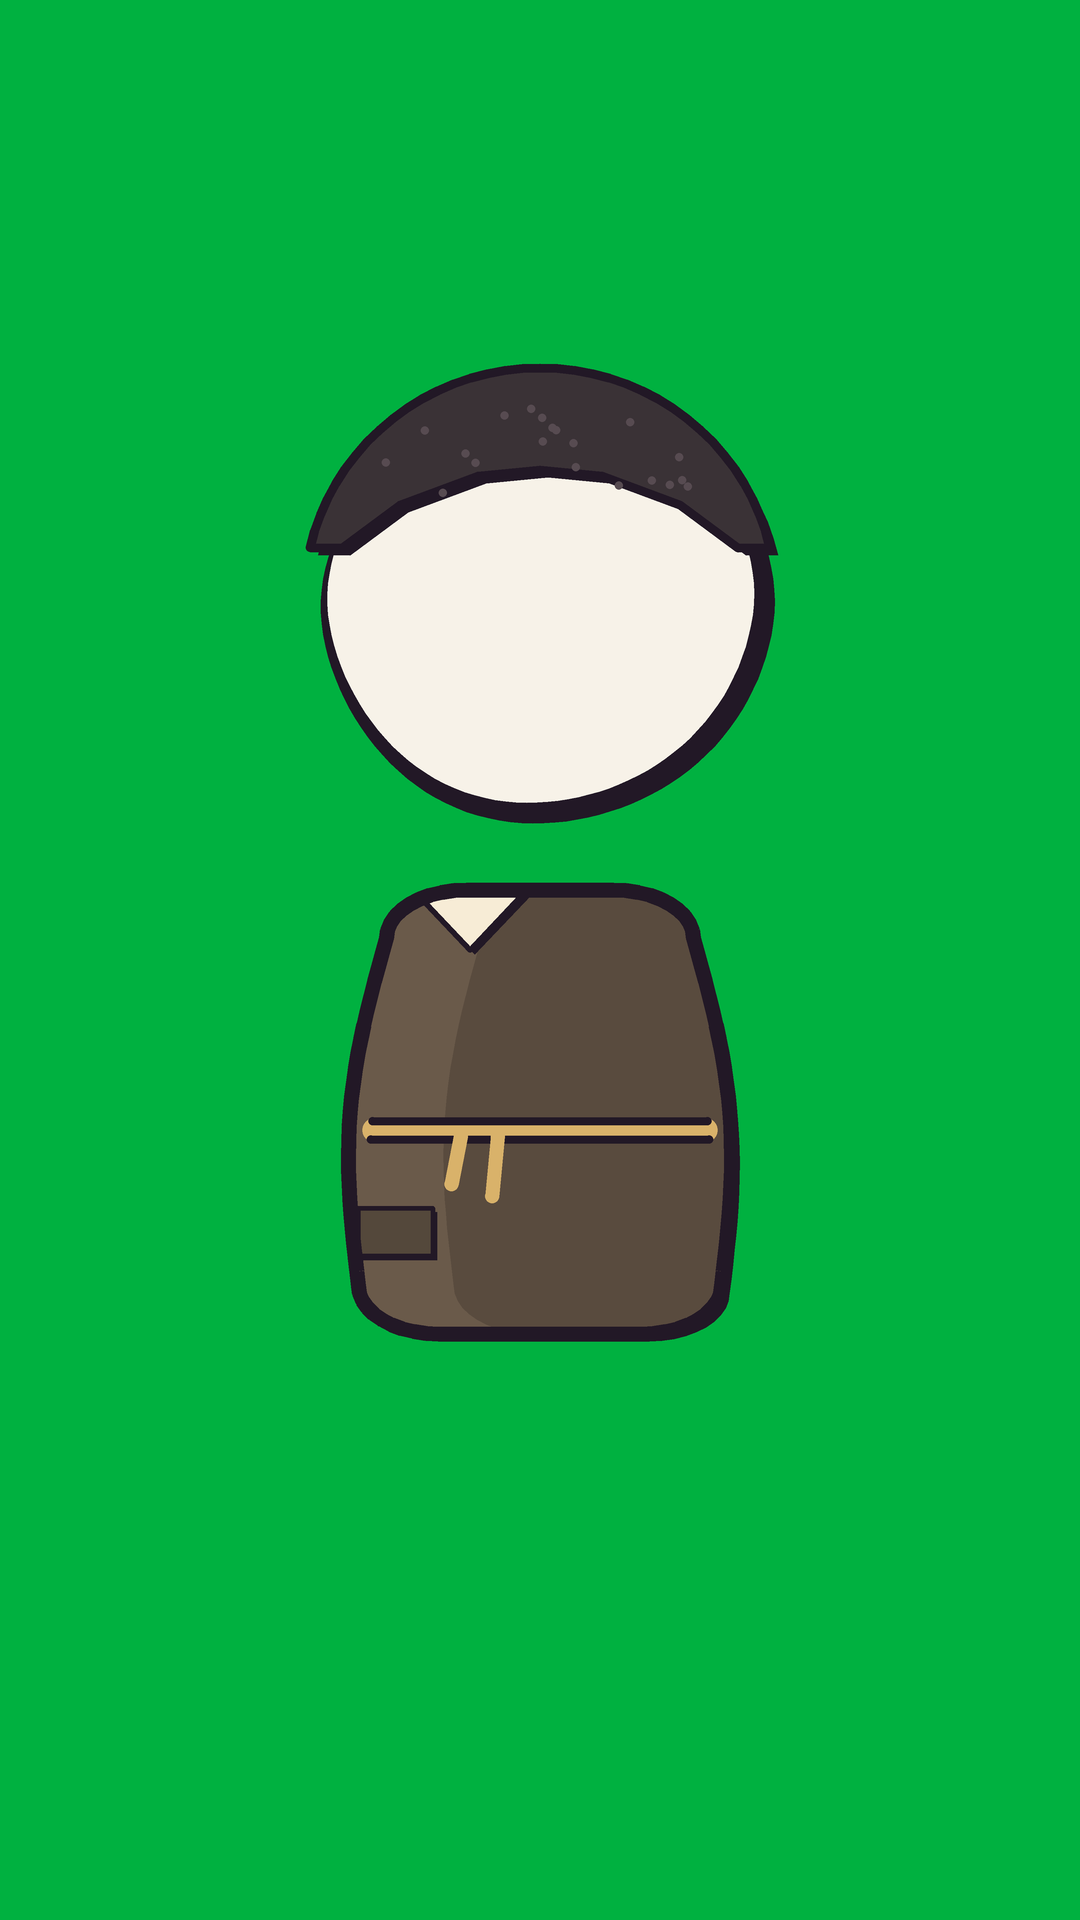
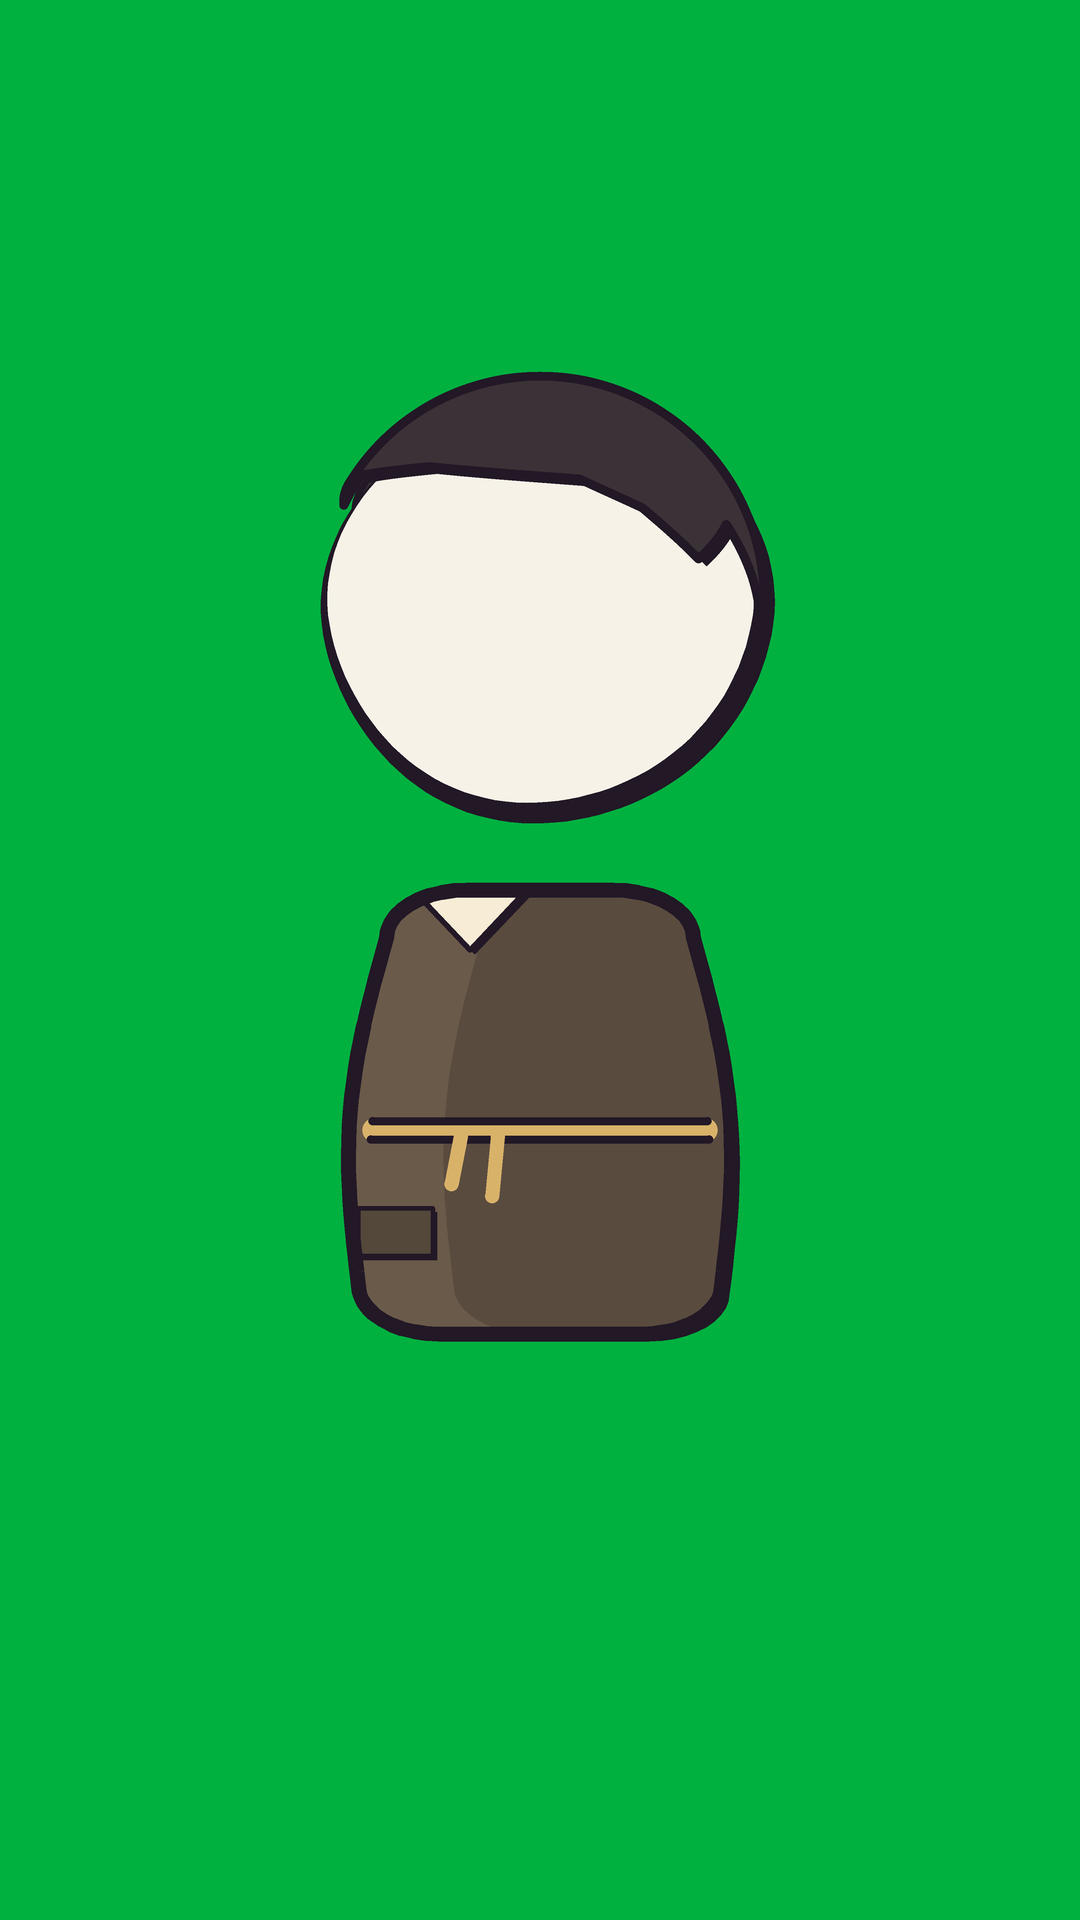
chars: 3D turned hair views on (front = original drawing); locked C01 C04 C05 C09 v2 and C10 v1 (user chose the right side of the comparison)

Changed region(s): [[0.275, 0.1875, 0.7333, 0.3125]]

diff --git a/projects/the-puppet-master/tools/mk_pm.py b/projects/the-puppet-master/tools/mk_pm.py
@@ -8,7 +8,7 @@ from outfits import *
 from hair_library import *
 import os, hair3d
 from styles3d import STYLES as STYLES3D
-USE3D = os.environ.get('HAIR3D') == '1'   # off by default until the user approves the 3D turned views
+USE3D = os.environ.get('HAIR3D', '1') == '1'   # on: user chose the 3D turned views 2026-11-24 (HAIR3D=0 gives the old flat ones)
 out=sys.argv[1]
 CH={'C01':(hair_aren,villager,(hexc('#1b1820'),)),'C02':(cap_guard,villager,(hexc('#2c3a5c'),)),
     'C03':(hair_fire,villager,(hexc('#c8bfa8'),)),'C04':(hair_buzz,villager,(hexc('#6a5a4a'),)),
